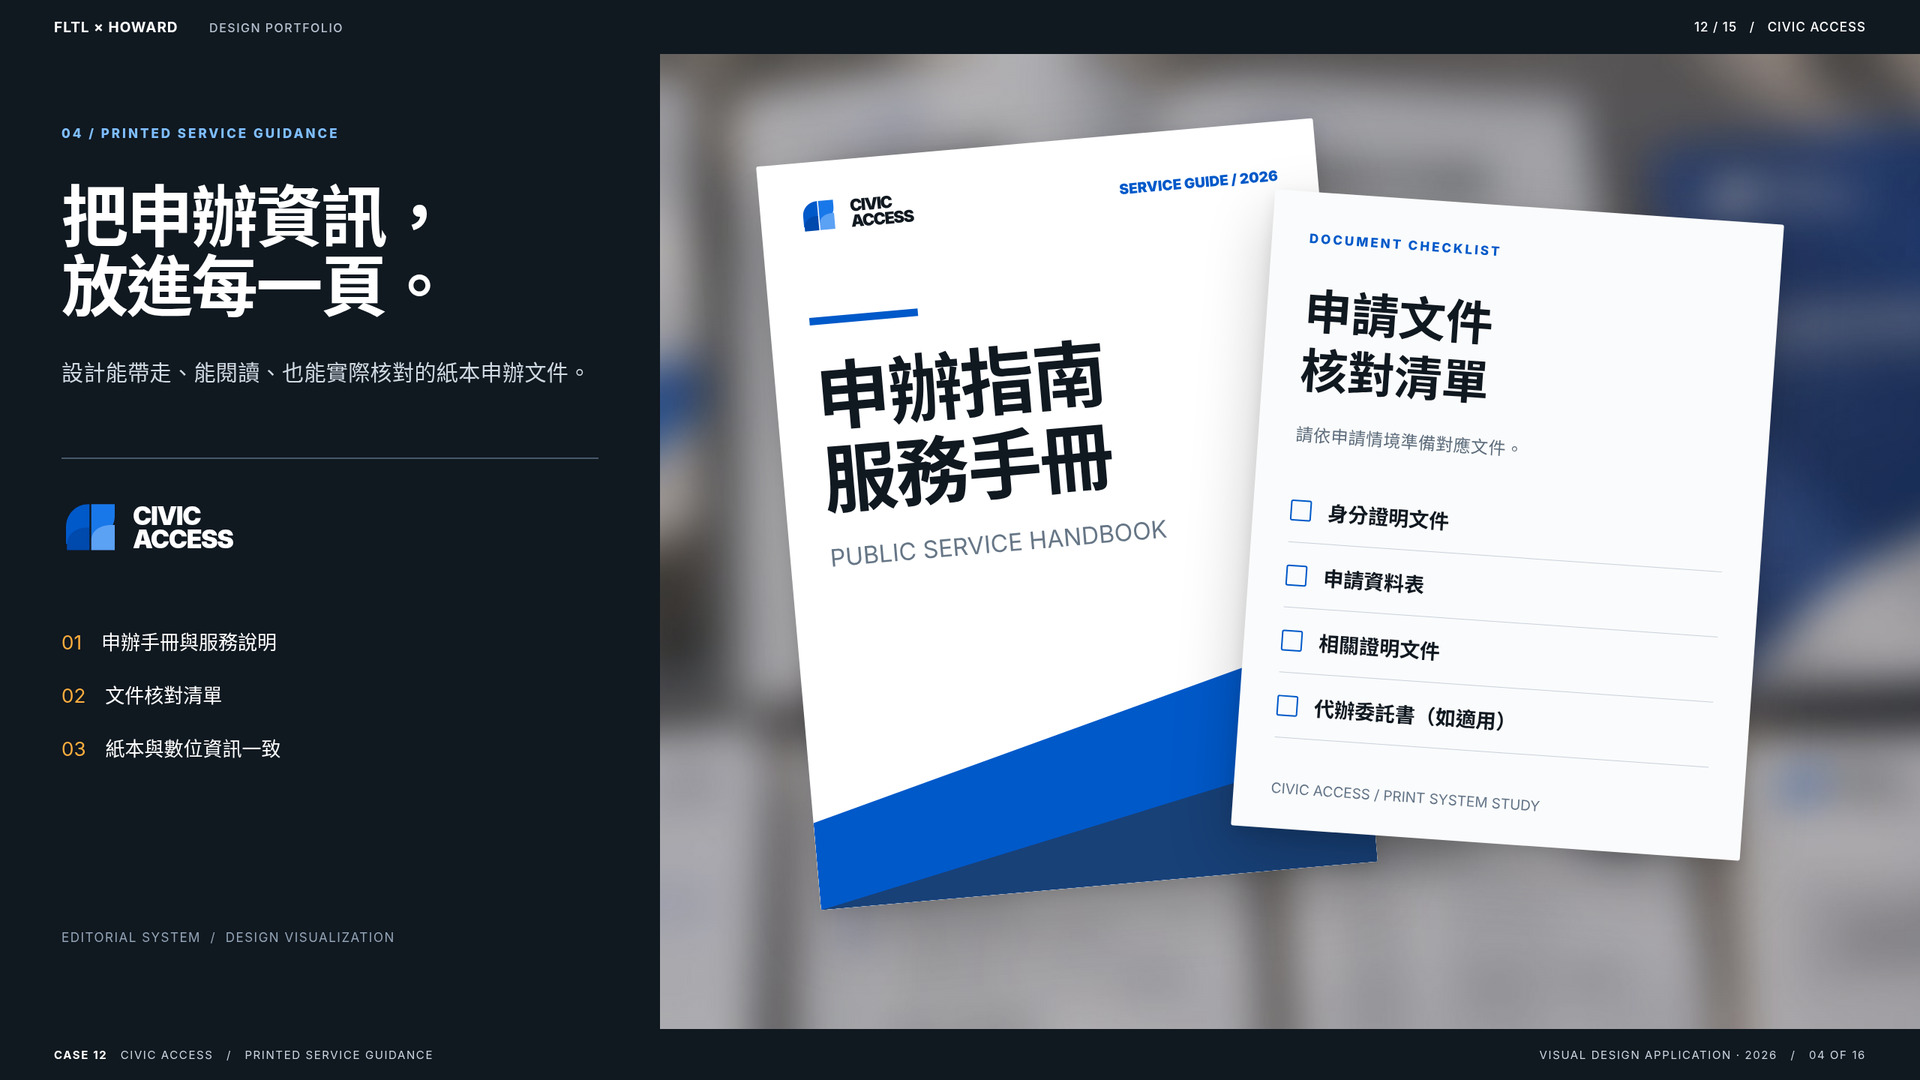
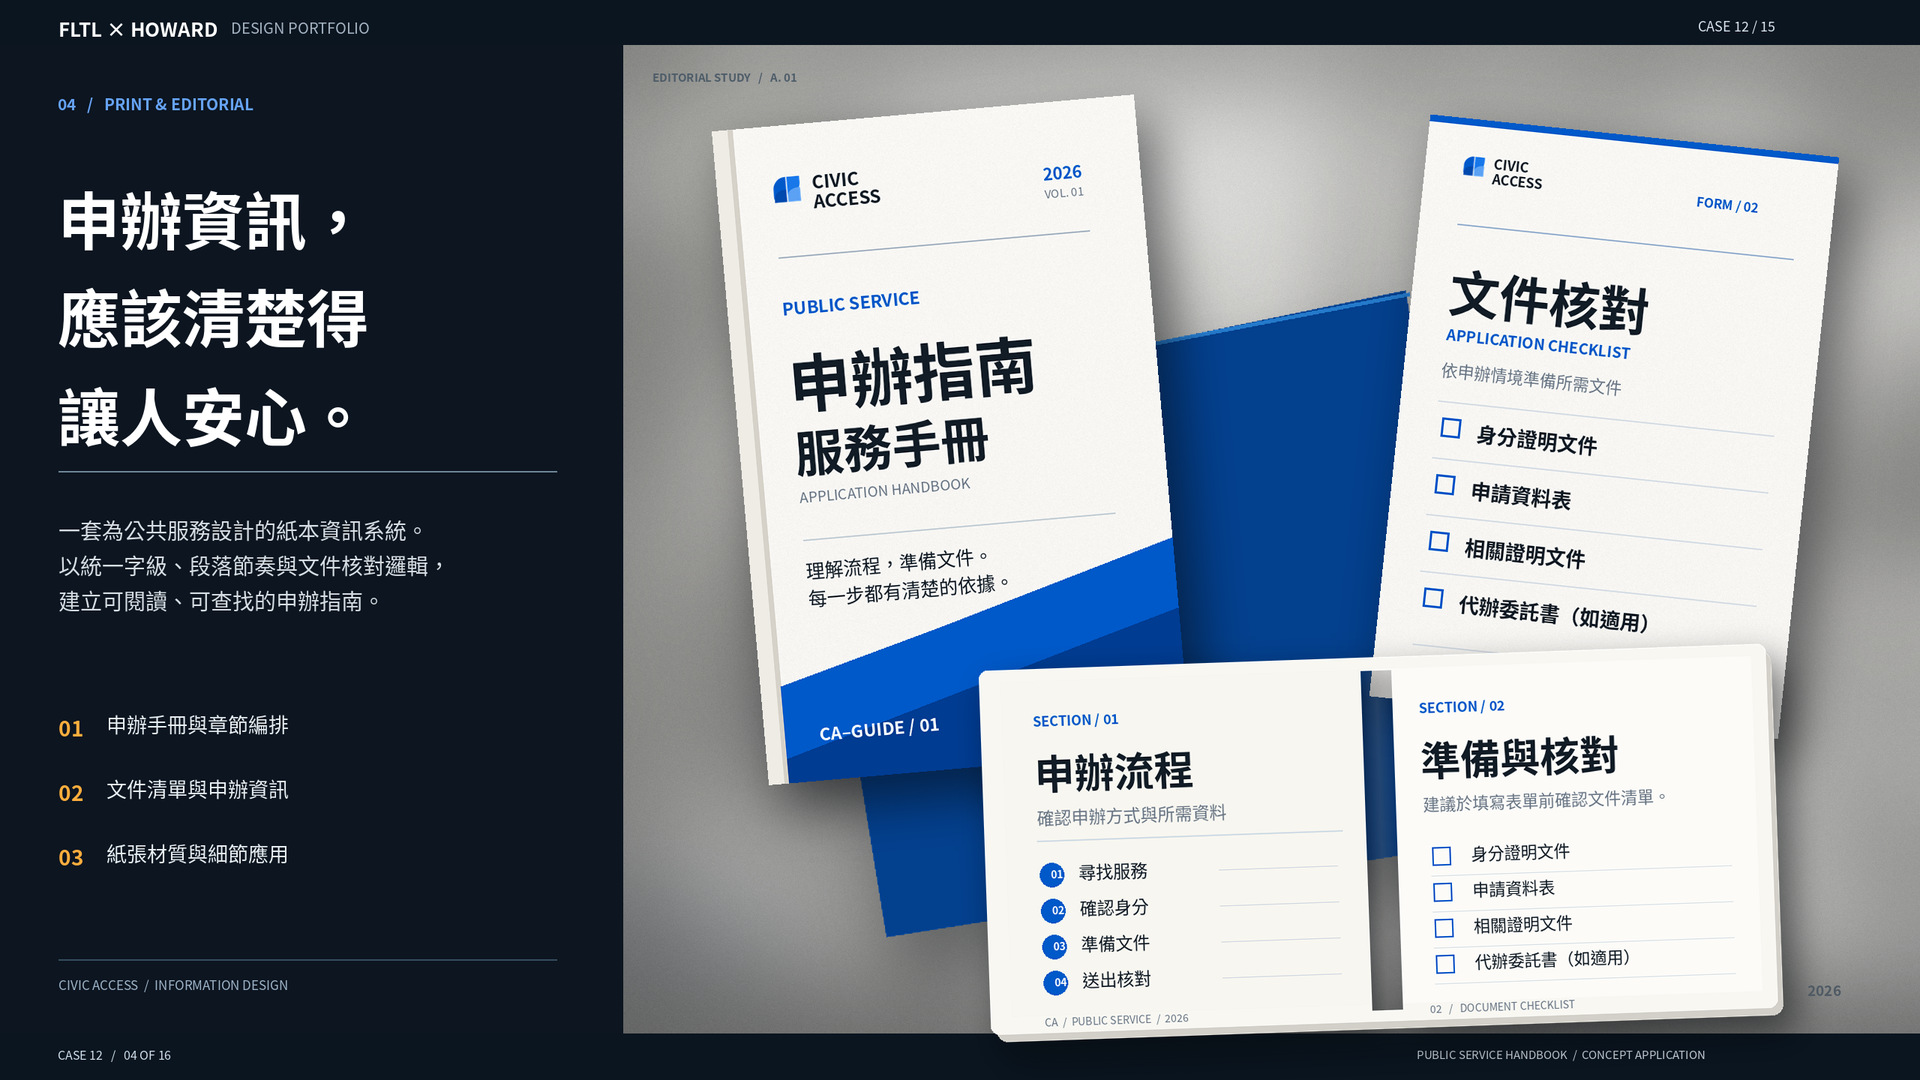
feat(case-12): apply V4 replacement assets for SHOT 04 and record visual QA [LOCAL HOLD]

diff --git a/brand/civic-access/presentation/CIVIC_ACCESS_12_V4_SHOT04_PATCH_REPORT.md b/brand/civic-access/presentation/CIVIC_ACCESS_12_V4_SHOT04_PATCH_REPORT.md
@@ -1,0 +1,105 @@
+# FLTL × HOWARD｜12 CIVIC ACCESS V4 SHOT 04 本機換圖驗收報告
+
+**審查日期：** 2026-11-03  
+**執行模式：** LOCAL PATCH ONLY · WHITELIST EXACTLY TWO FILES · ZERO PUSH · ZERO DEPLOY · ARTWORK REVIEW GATE  
+**工作分支：** `feature/civic-access-case12-v2-local`  
+**基準 Commit：** `9de3bfb`  
+**專案路徑：** `/Users/howard/Desktop/Portfolio/brand/civic-access/`  
+**最終判定狀態：**  
+`LOCAL V4 SHOT04 PATCH READY / AWAITING HOWARD VISUAL APPROVAL`
+
+---
+
+## 一、嚴格白名單：兩張替換圖檔 SHA-256 核對
+
+依據工單白名單，僅替換 CASE 12 的 **SHOT 04** 共 1 張 JPG 與 1 張 PNG。經 `shasum -a 256` 逐檔校驗，100% 精確符合官方交付包 `SHA256SUMS.txt` 與 `PATCH_HASHES.json`：
+
+| 檔案類型 | 專案路徑 | 尺寸規格 | V4 正式 SHA-256 校驗值 | 校驗結果 |
+|---|---|---|---|---|
[2 lines of base64/hex data omitted]
+
+---
+
+## 二、SHOT 01–03、05–16 維持原狀確認（三十個圖片檔案）
+
+全站其餘 30 個圖片檔案（15 張 JPG、15 張 PNG）完全未受修改，位元組與雜湊值完全維持原狀：
+- `shot-01.jpg` (`da970e...`) / `shot-01.png` (`b86f01...`)：✅ 保留
+- `shot-02.jpg` (`78365b...`) / `shot-02.png` (`4ffdb2...`)：✅ 保留
+- `shot-03.jpg` (`867ab2...`) / `shot-03.png` (`e5456d...`)：✅ 保留
+- `shot-05.jpg` (`e1ac8d...`) / `shot-05.png` (`6bde2f...`)：✅ 保留
+- `shot-06` ～ `shot-16`（22 個檔案）：✅ 全數保留
+
+---
+
+## 三、SHOT 04 V4 視覺品質與 OCR 文字核對（驗收條件 2）
+
+透過 Apple Vision OCR 深度掃描 2560×1440 Master PNG，確認工單所列關鍵文字與排版結構全數精確呈現，無任何生成假字或錯字：
+
+1. **封面標題：**
+   - 「CIVIC ACCESS PUBLIC SERVICE 申辦指南 服務手冊 APPLICATION HANDBOOK」
+   - 「理解流程，準備文件。每一步都有清楚的依據。2026 VOL.01」
+2. **章節標籤：**
+   - 「SECTION / 01 申辦流程 確認申辦方式與所需資料（尋找服務 → 確認身分 → 準備文件 → 送出核對）」
+   - 「SECTION / 02 準備與核對 建議於填寫表單前確認文件清單」
+3. **四條獨立文件核對清單項目：**
+   - ☑ **身分證明文件**
+   - ☑ **申請資料表**
+   - ☑ **相關證明文件**
+   - ☑ **代辦委託書（如適用）**
+4. **設計說明項目：**
+   - 「01 申辦手冊與章節編排 / 02 文件清單與申辦資訊 / 03 紙張材質與細節應用」
+5. **品質判定：** 文字層次分明，排版符合瑞士國際主義風格，無任何來源圖之生成假字。
+
+---
+
+## 四、本機 Chromium 自動化驗收成果（驗收條件 3 & 4）
+
+執行 `scratch/test_civic_access_v4_patch.mjs`，測試結果全數 PASS：
+
+1. **桌機 1440px 網格呈現：**
+   - `assets/mockups/shot-04.jpg` 正常載入，`complete === true`，尺寸精確為 `1920 × 1080`。
+   - 截圖：`ca_v4_shot_04_desktop_grid_1440.png`。
+2. **原寸 2560×1440 無障礙燈箱：**
+   - 點擊卡片開啟 Lightbox，`assets/shots/shot-04.png` 正常載入，`naturalWidth === 2560`，`naturalHeight === 1440`。
+   - 支援 `Escape` 鍵關閉並回存鍵盤焦點。
+   - 截圖：`ca_v4_shot_04_lightbox_2560.png`。
+3. **手機 390px 視口實測：**
+   - 在 iPhone 16/15（390×844，DPR=3）視口下，卡片寬度自適應為 358px，`scrollWidth: 390px <= innerWidth: 390px`，橫向溢出 0px。
+   - 截圖：`ca_v4_shot_04_mobile_390.png`。
+4. **既有功能回歸（Zero Regression）：**
+   - 服務搜尋、身分分流、動態文件勾選、表單欄位驗證正常。
+   - CA-10 檔案上限警示：`檔案大小（14.5 MB / 15,204,352 位元組）超過 10 MB（10,485,760 位元組）上限，請重新選取。` 格式完全維持。
+   - 示範送件追蹤碼：產生 `DEMO-CA-2026-001`，零對外請求。
+   - 主控台錯誤：Console Errors = 0。
+
+---
+
+## 五、V4 實測截圖清單（供 Howard 最終視覺驗收）
+
+截圖已存於 `brand/civic-access/presentation/evidence-v4-local/`：
+
+1. **桌機網格檢視 (1440px)：** [ca_v4_shot_04_desktop_grid_1440.png](file:///Users/howard/Desktop/Portfolio/brand/civic-access/presentation/evidence-v4-local/ca_v4_shot_04_desktop_grid_1440.png)
+2. **原寸燈箱檢視 (2560×1440)：** [ca_v4_shot_04_lightbox_2560.png](file:///Users/howard/Desktop/Portfolio/brand/civic-access/presentation/evidence-v4-local/ca_v4_shot_04_lightbox_2560.png)
+3. **手機直向檢視 (390px)：** [ca_v4_shot_04_mobile_390.png](file:///Users/howard/Desktop/Portfolio/brand/civic-access/presentation/evidence-v4-local/ca_v4_shot_04_mobile_390.png)
+
+---
+
+## 六、Git 異動清單與安全隔離確認
+
+- **工作分支：** `feature/civic-access-case12-v2-local`
+- **`git diff --name-only` 驗證：**
+  - `brand/civic-access/assets/mockups/shot-04.jpg`
+  - `brand/civic-access/assets/shots/shot-04.png`
+  - 嚴格僅包含上述兩個白名單圖檔。
+- **發布動作：** **ZERO PUSH · ZERO DEPLOY · ZERO PR · ZERO MERGE**
+- **01–11 正式案件保護狀態：** 完全凍結。
+- **13–15 未完成專案保護狀態：** 完全凍結。
+
+---
+
+## 七、結論與等待指令
+
+**當前狀態：`LOCAL V4 SHOT04 PATCH READY / AWAITING HOWARD VISUAL APPROVAL`**
+
+Antigravity 已嚴格按工單完成 SHOT 04 二圖替換與全功能回歸測試，請 Howard 檢閱截圖與本機實際畫面。未取得正式指示前，全案持續維持本機隔離狀態，**絕不推播或部署**。
